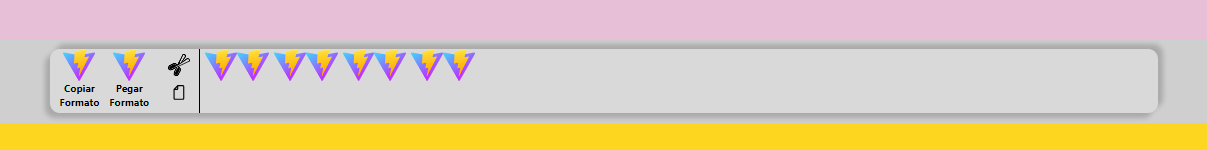
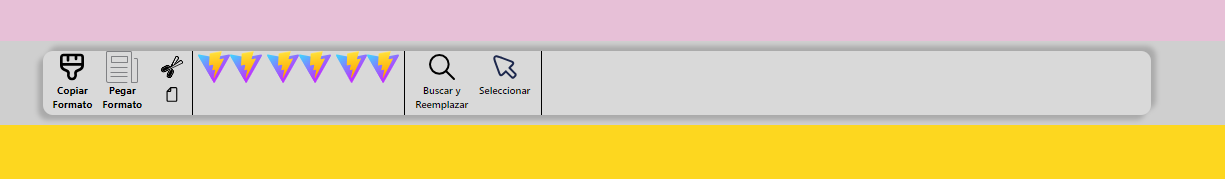
V1.2

Changed region(s): [[0.0, 0.2133, 1.0, 0.8267], [0.3372, 0.56, 0.3985, 0.6133]]

diff --git a/src/App.css b/src/App.css
@@ -79,6 +79,7 @@ footer
   "span1 span2 img4";
   .sec_img1Copiar
   {
+    width: 2rem;
     grid-area: img1;
   }
   .sec_span1Copiar
@@ -90,6 +91,7 @@ footer
 
   .sec_img2Copiar
   {
+    width: 2rem;
     grid-area: img2;
   }
   .sec_span2Copiar
@@ -127,5 +129,46 @@ footer
 }
 .secccion5
 {
-  grid-area: secccion5;
+  /* grid-area: secccion5; */
+  column-gap: 10px;
+  text-align: center;
+  justify-items: center;
+  /* justify-items: start; */
+  background-color: var(--Background-Nav);
+  display: grid;
+  grid-template-columns: 1fr 1fr;
+  grid-template-rows: 1fr 1fr;
+  grid-template-areas: 
+  "sec5_img1Copiar sec5_img2Copiar"
+  "sec5_span1Copiar sec5_span2Copiar";
+  border-right: 1px solid;
+  border-left: 1px solid;
+  padding-left: 10px;
+  padding-right: 10px;
+
+  .sec5_span1Copiar, .sec5_span2Copiar
+  {
+    font-size: 10px;
+    font-weight: 600;
+  }
+
+
+  .sec5_img1Copiar
+  {
+    width: 2rem;
+    grid-area: sec5_img1Copiar;
+  }
+  .sec5_img2Copiar
+  {
+    width: 2rem;
+    grid-area: sec5_img2Copiar;
+  }
+  .sec5_span1Copiar
+  {
+    grid-area: sec5_span1Copiar;
+  }
+  .sec5_span2Copiar
+  {
+    grid-area: sec5_span2Copiar;
+  }
 }

diff --git a/src/assets/Secciones-Nav/Seccion_1.jsx b/src/assets/Secciones-Nav/Seccion_1.jsx
@@ -2,9 +2,9 @@ export function Seccion1()
 {
     return(
         <div className="secccion1">
-            <img src="/vite.svg" className="sec_img1Copiar"></img>
+            <img src="/svg/brocha.svg" className="sec_img1Copiar"></img>
             <span className="sec_span1Copiar">Copiar <br></br> Formato</span>
-            <img src="/vite.svg" className="sec_img2Copiar"></img>
+            <img src="/svg/paste.svg" className="sec_img2Copiar"></img>
             {/* Desplegale */}
             <span className="sec_span2Copiar">Pegar<br></br> Formato</span>
             <img src="/svg/tigeras.svg" className="sec_img3Copiar"></img>

diff --git a/src/assets/Secciones-Nav/Seccion_5.jsx b/src/assets/Secciones-Nav/Seccion_5.jsx
@@ -2,8 +2,10 @@ export function Seccion5()
 {
     return(
         <div className="secccion5">
-            <img src="/vite.svg"></img>
-            <img src="/vite.svg"></img>
+            <img src="/svg/lupa.svg" className="sec5_img1Copiar"></img>
+            <span className="sec5_span1Copiar">Buscar y <br></br>Reemplazar</span>
+            <img src="/svg/cursor.svg" className="sec5_img2Copiar"></img>
+            <span className="sec5_span2Copiar">Seleccionar</span>
         </div>
     )
 }
